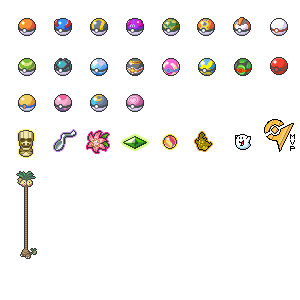
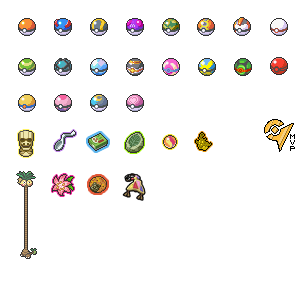
asign flairs

diff --git a/src/userflair.css b/src/userflair.css
@@ -128,6 +128,12 @@
     background-position: -217px -50px;
 }
 
+/* golden magnemite */
+.author[href$="/WDey"]~.flair {
+    background-image: url(%%specialflairs%%)!important;
+    background-position: -257px -54px;
+}
+
 /********************************************************************************
 * CUSTOM USER BALL FLAIRS
 *********************************************************************************/
@@ -411,4 +417,15 @@
 .author[href$="/Yugeulb"]~.flair:after,
 .author[href$="/Sushikitteh"]~.flair:after {
     background-position: -8px -129px;
+}
+
+/* best of 2016 */
+.author[href$="/Flying__Penguin"]~.flair:after,
+.author[href$="/Unluckyturtle"]~.flair:after,
+.author[href$="/MistaWhiska"]~.flair:after,
+.author[href$="/InnocuousSpaniard"]~.flair:after,
+.author[href$="/Anarkey94"]~.flair:after,
+.author[href$="/Bobdor"]~.flair:after {
+    background-position: -118px -172px;
+    transform: scale(0.9);
 }
